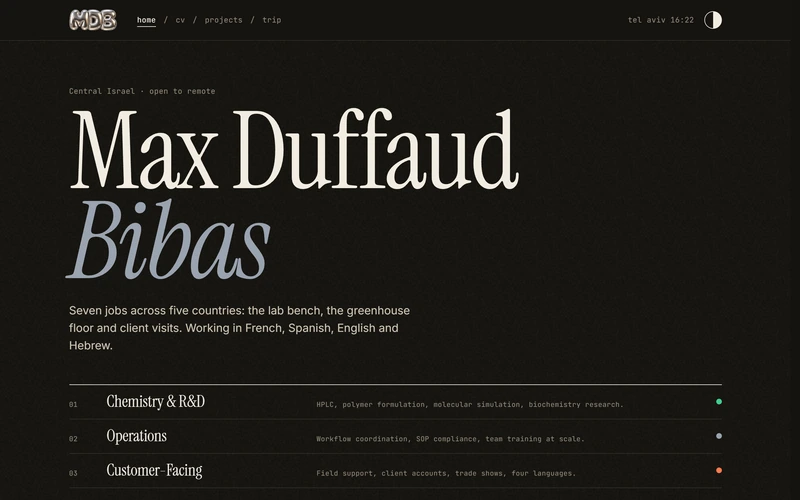
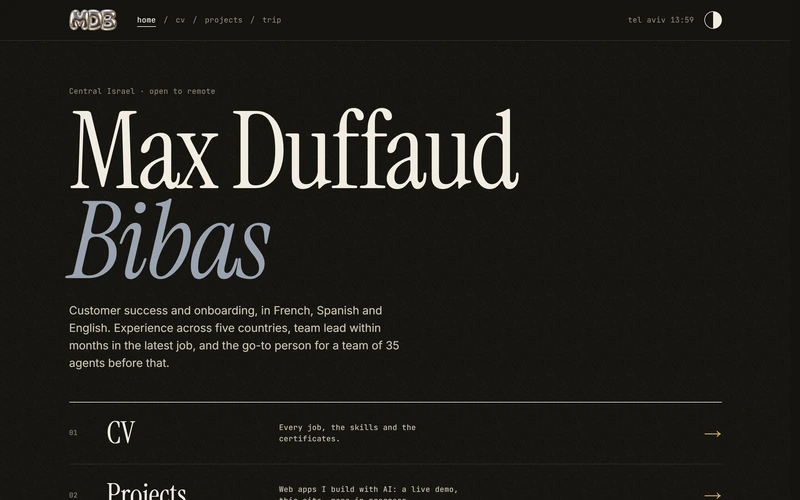
Owner's changes: services hidden behind a switch, countries instead of the job count
- data-services="off" on the <html> tag (line 2 of index.html) hides every
  [data-offer] block; the How I work section and its button are marked. "on" shows them again.
- Guestbook: Mireille Duvox out, Felix Followup in (his pick).
- Sharing description, Home line, board line and caption say countries, not seven jobs.
- Avicampo: "alone" dropped from the IPPE bullet, to match his CV.
- Car broker one line ends on "A private dashboard runs it all."
- "This website" case view and pictures no longer describe the three readings
  (home, home thumb and CV board retaken from the real site).

diff --git a/index.html b/index.html
@@ -1,5 +1,5 @@
 <!DOCTYPE html>
-<html lang="en">
+<html lang="en" data-services="off">
 <head>
 <!-- Decides before first paint whether the Welcome gate and the opening run (see js/home-intro.js, css/opening.css). -->
 <script id="intro-flag">
@@ -54,12 +54,12 @@ function releaseIntroIfStranded(win, root){
 <meta name="viewport" content="width=device-width, initial-scale=1" />
 <!-- seo:start -->
 <title>Max Duffaud Bibas | Customer Success &amp; Onboarding</title>
-<meta name="description" content="Customer success and onboarding in French, Spanish and English. 30+ new agents trained, seven jobs across five countries. CV, projects and trip. Open to remote.">
+<meta name="description" content="Customer success and onboarding in French, Spanish and English. 30+ agents trained, experience across five countries. Central Israel, open to remote.">
 <link rel="canonical" href="https://learningwithmax.github.io/MaxDB/">
 <meta property="og:type" content="website">
 <meta property="og:site_name" content="Max Duffaud Bibas">
 <meta property="og:title" content="Max Duffaud Bibas | Customer Success &amp; Onboarding">
-<meta property="og:description" content="Customer success and onboarding in French, Spanish and English. 30+ new agents trained, seven jobs across five countries. CV, projects and trip. Open to remote.">
+<meta property="og:description" content="Customer success and onboarding in French, Spanish and English. 30+ agents trained, experience across five countries. Central Israel, open to remote.">
 <meta property="og:url" content="https://learningwithmax.github.io/MaxDB/">
 <meta property="og:locale" content="en_US">
 <meta property="og:image" content="https://learningwithmax.github.io/MaxDB/img/og.png">
@@ -68,7 +68,7 @@ function releaseIntroIfStranded(win, root){
 <meta property="og:image:alt" content="The chrome balloon letters MDB on a black background, with the name Max Duffaud Bibas below.">
 <meta name="twitter:card" content="summary_large_image">
 <meta name="twitter:title" content="Max Duffaud Bibas | Customer Success &amp; Onboarding">
-<meta name="twitter:description" content="Customer success and onboarding in French, Spanish and English. 30+ new agents trained, seven jobs across five countries. CV, projects and trip. Open to remote.">
+<meta name="twitter:description" content="Customer success and onboarding in French, Spanish and English. 30+ agents trained, experience across five countries. Central Israel, open to remote.">
 <meta name="twitter:image" content="https://learningwithmax.github.io/MaxDB/img/og.png">
 <meta name="twitter:image:alt" content="The chrome balloon letters MDB on a black background, with the name Max Duffaud Bibas below.">
 <script type="application/ld+json">{"@context":"https://schema.org","@graph":[{"@type":"WebSite","@id":"https://learningwithmax.github.io/MaxDB/#website","name":"Max Duffaud Bibas","url":"https://learningwithmax.github.io/MaxDB/"},{"@type":"Person","@id":"https://learningwithmax.github.io/MaxDB/#person","name":"Max Duffaud Bibas","url":"https://learningwithmax.github.io/MaxDB/","sameAs":["https://linkedin.com/in/max-duffaud"],"knowsLanguage":["fr","es","en","he"]}]}</script>
@@ -263,7 +263,7 @@ function readStoredTheme(storage){
       <div class="hero-main">
         <p class="kicker fade-in" data-reveal>Central Israel &middot; open to remote</p>
         <h1 class="name fade-in" style="animation-delay:.05s" data-reveal>Max Duffaud<br><em>Bibas</em></h1>
-        <p class="role-line fade-in" style="animation-delay:.1s" data-reveal>Customer success and onboarding, in French, Spanish and English. Seven jobs across five countries, team lead within months in the latest one, and the go-to person for a team of 35 agents before that.</p>
+        <p class="role-line fade-in" style="animation-delay:.1s" data-reveal>Customer success and onboarding, in French, Spanish and English. Experience across five countries, team lead within months in the latest job, and the go-to person for a team of 35 agents before that.</p>
       </div>
 
       <ol class="cta-list fade-in" style="animation-delay:.15s" data-reveal>
@@ -351,9 +351,9 @@ function readStoredTheme(storage){
     </div>
 
     <section class="cv-board" id="cvBoard" aria-label="The seven jobs, one line each">
-      <p class="cv-board-sub">Seven jobs, one person.</p>
+      <p class="cv-board-sub">Five countries, one method.</p>
       <div class="cv-board-frame"><canvas role="img" aria-label="Split-flap board listing the seven jobs below, one line each"></canvas><div class="cv-board-labels" aria-hidden="true"></div></div>
-      <p class="cap cv-board-cap">Fig. 1. Seven jobs, five countries.</p>
+      <p class="cap cv-board-cap">Fig. 1. One line per job, newest first.</p>
       <p class="cv-board-note">The full story of each job is below.</p>
     </section>
 
@@ -426,7 +426,7 @@ function readStoredTheme(storage){
         <ul>
           <li>Joined field visits to 7-8 major clients, assessing technical needs and equipment status.</li>
           <li>Took part in 10-12 sales meetings, including IPPE in Atlanta (the world's largest poultry trade show) and the SIAVS trade show in S&atilde;o Paulo.</li>
-          <li>Handled a French-speaking client alone at IPPE on behalf of the Plasson team, gathering technical requirements. Worked in Spanish and English.</li>
+          <li>Handled a French-speaking client at IPPE on behalf of the Plasson team, gathering technical requirements. Worked in Spanish and English.</li>
         </ul>
       </div>
 
@@ -786,7 +786,7 @@ function readStoredTheme(storage){
     <section class="slider" id="projectSlider" role="group" aria-roledescription="carousel" aria-label="Projects" tabindex="0"></section>
     <noscript>
       <ul class="shelf-list">
-        <li><strong>Car broker template</strong>, Live. A website template for a vehicle broker. Visitors choose a path (rentals, leases, no credit check, car sourcing, or selling their car), pick a car and send a request, and the broker contacts them. A private dashboard runs it all. Each client gets their own version, starting with the look. Inside the dashboard: Requests with a status for each car, search and filters, private notes, reply templates, a calendar and CSV export. Cars with photos, prices and tags for each path, and Duplicate. Switch paths on or off, manage locations and site images, and see top customers. Built with: Next.js, React, TypeScript, Tailwind, Supabase, Resend and Vercel. Where it stands: Live as a demo on invented data. Small adjustments are still coming. Note: A new look for the site and the dashboard is coming, so this picture and the demo will change. <a href="https://mdesigns-broker-demo.vercel.app" target="_blank" rel="noopener">Visit Car broker template (opens in a new tab)</a> <a href="mailto:duffaud.max@gmail.com?subject=Demo%20access%3A%20Car%20broker%20template&amp;body=Hi%20Max%2C%0A%0AI%20saw%20Car%20broker%20template%20on%20your%20site%20and%20would%20like%20access%20to%20the%20dashboard.">Ask for access to the dashboard of Car broker template</a></li>
+        <li><strong>Car broker template</strong>, Live. A website template for a vehicle broker. Visitors choose a path (rentals, leases, no credit check, car sourcing, or selling their car), pick a car and send a request, and the broker contacts them. A private dashboard runs it all. Inside the dashboard: Requests with a status for each car, search and filters, private notes, reply templates, a calendar and CSV export. Cars with photos, prices and tags for each path, and Duplicate. Switch paths on or off, manage locations and site images, and see top customers. Built with: Next.js, React, TypeScript, Tailwind, Supabase, Resend and Vercel. Where it stands: Live as a demo on invented data. Small adjustments are still coming. Note: A new look for the site and the dashboard is coming, so this picture and the demo will change. <a href="https://mdesigns-broker-demo.vercel.app" target="_blank" rel="noopener">Visit Car broker template (opens in a new tab)</a> <a href="mailto:duffaud.max@gmail.com?subject=Demo%20access%3A%20Car%20broker%20template&amp;body=Hi%20Max%2C%0A%0AI%20saw%20Car%20broker%20template%20on%20your%20site%20and%20would%20like%20access%20to%20the%20dashboard.">Ask for access to the dashboard of Car broker template</a></li>
         <li><strong>This website</strong>, Live. A showcase of me: my professional experience in the CV, my creative side in the look, and my tech side in the site itself and its animations, including a 3D flight over the places where I was born, studied and worked. I bring the vision and lead, and Claude brainstorms and builds it with me. Built with: Claude, in plain HTML, CSS and JavaScript, with three.js and GSAP for the 3D. No framework. Where it stands: Live and still growing. It will keep growing as new projects happen and I keep expanding it. <a href="#projects/site">See how This website is built</a></li>
         <li><strong>Voice organizer</strong>, Building and testing. A voice-first to-do and memory system. I talk to Claude on my phone, even in a long ramble, and it files what I said into Notion as tasks, reminders, appointments, notes and ideas. It checks for repeats, plans my day, wraps it up with me and keeps a searchable daily log. Inside the dashboard: A Notion dashboard with the list for today, what slipped from earlier, an inbox, a calendar, build ideas, ideas and notes, and a daily log that keeps everything I said. Built with: The Claude app on my phone and Notion, with a written set of instructions. Nothing to host. Where it stands: Built and in testing on my own phone. More features are planned, and it is not public.</li>
         <li><strong>Broker template for any market</strong>, Planned. One template for any broker business, built from the car broker. The skeleton stays the same: a catalog, requests with a status, private notes, reply templates and a calendar. For each market, the paths visitors choose, the details of each item and the look change. Built with: The same stack as the car broker: Next.js, TypeScript, Tailwind CSS and Supabase. Where it stands: Planned. It starts once the car version is complete.</li>
@@ -794,7 +794,7 @@ function readStoredTheme(storage){
       </ul>
     </noscript>
 
-    <section class="how-i-work" aria-labelledby="how-title">
+    <section class="how-i-work" data-offer aria-labelledby="how-title">
       <p class="kicker">How I work</p>
       <h2 id="how-title">Want one like it?</h2>
       <p class="how-lead">The templates above are a base that I personalize for you. They are also here to show what I know how to build, so if you want something 100% custom, I can build that too.</p>
@@ -813,14 +813,14 @@ function readStoredTheme(storage){
       <p class="kicker">Project</p>
       <h1 id="case-site-title">This website</h1>
       <p class="case-status"><span class="chip chip-live">Live</span></p>
-      <p class="case-lead">The site you are on, built with Claude from written specs: a CV that reads four ways, a trip page and this projects page. Plain HTML, CSS and JavaScript, with no framework and no build step.</p>
+      <p class="case-lead">The site you are on, built with Claude from written specs: a CV with a split-flap board, a trip page and this projects page. Plain HTML, CSS and JavaScript, with no framework and no build step.</p>
       <figure class="case-fig">
         <img src="img/projects/site/opening.webp" width="1600" height="1000" loading="lazy" decoding="async" alt="The opening: chrome spheres gathered into the letters MDB on a black screen">
         <figcaption class="cap">Fig. 1. The opening, spheres gathering into the logo.</figcaption>
       </figure>
       <figure class="case-fig">
-        <img src="img/projects/site/screen-cv.webp" width="1600" height="1000" loading="lazy" decoding="async" alt="The CV page with the departure board showing the Operations reading">
-        <figcaption class="cap">Fig. 2. The CV board flipping to one reading.</figcaption>
+        <img src="img/projects/site/screen-cv.webp" width="1600" height="1000" loading="lazy" decoding="async" alt="The CV page: the split-flap board with one line per job, the year, the place and what I did">
+        <figcaption class="cap">Fig. 2. The CV board, every job flipping into place.</figcaption>
       </figure>
       <figure class="case-fig">
         <img src="img/projects/site/screen-trip.webp" width="1600" height="1000" loading="lazy" decoding="async" alt="The trip page: a 3D globe over Europe with a plane in flight, and the list of eleven stops beside it">
@@ -910,9 +910,9 @@ function readStoredTheme(storage){
             <div class="g-comment">"10/10 site design. 2/10 for making me read a resume this closely."</div>
           </div>
           <div class="vlog-guest">
-            <div class="g-name">Mireille Duvox</div>
-            <div class="g-role">Head of Vibes &middot; Quantum Whatever Corp</div>
-            <div class="g-comment">"Chemist, operator, translator. Pick a lane. (He didn't. Respect.)"</div>
+            <div class="g-name">Felix Followup</div>
+            <div class="g-role">Senior Follow-Up Officer &middot; Circle Back Inc.</div>
+            <div class="g-comment">"Just circling back to say the split-flap board is still flipping in my head."</div>
           </div>
           <div class="vlog-guest">
             <div class="g-name">Barnaby Sump</div>

diff --git a/js/projects.js b/js/projects.js
@@ -13,7 +13,7 @@ const STATUS_LABELS = { live: 'Live', building: 'Building and testing', planned:
 const PROJECTS = [
   {
     id: 'car-broker', title: 'Car broker template', status: 'live', order: 1, access: 'request', accessTo: 'the dashboard', href: 'https://mdesigns-broker-demo.vercel.app',
-    oneLine: 'A website template for a vehicle broker. Visitors choose a path (rentals, leases, no credit check, car sourcing, or selling their car), pick a car and send a request, and the broker contacts them. A private dashboard runs it all. Each client gets their own version, starting with the look.',
+    oneLine: 'A website template for a vehicle broker. Visitors choose a path (rentals, leases, no credit check, car sourcing, or selling their car), pick a car and send a request, and the broker contacts them. A private dashboard runs it all.',
     dashboard: 'Requests with a status for each car, search and filters, private notes, reply templates, a calendar and CSV export. Cars with photos, prices and tags for each path, and Duplicate. Switch paths on or off, manage locations and site images, and see top customers.',
     builtWith: 'Next.js, React, TypeScript, Tailwind, Supabase, Resend and Vercel.',
     stands: 'Live as a demo on invented data. Small adjustments are still coming.',
@@ -30,7 +30,7 @@ const PROJECTS = [
     stands: 'Live and still growing. It will keep growing as new projects happen and I keep expanding it.',
     image: {
       src: 'img/projects/site/home.webp', thumb: 'img/projects/site/home-thumb.webp', w: 1600, h: 1000,
-      alt: 'The home page of this website: the name in large serif type, one line about seven jobs across five countries, and three rows for the CV readings.',
+      alt: 'The home page of this website: the name in large serif type, one line about customer success and onboarding, and the first big buttons, to the CV and Projects.',
     },
   },
   {

diff --git a/css/projects.css b/css/projects.css
@@ -166,6 +166,10 @@
 .how-promise{margin:var(--sp-24) 0 0; padding-left:var(--sp-12); border-left:2px solid var(--gold); font:400 12px/1.6 var(--font-mono); letter-spacing:.03em; color:var(--text-2);}
 .how-action{margin:var(--sp-24) 0 0;}
 #page-projects[data-view="case"] .how-i-work{display:none;}
+/* The services switch (owner, 2026-11-14): data-services on the <html> tag, line 2 of index.html. "off" hides every block marked
+   data-offer (today the How I work block and its "Tell me what you need" button); change it to "on" to show them again. Pure CSS, so it
+   works without JavaScript and nothing flashes while the page loads. */
+:root[data-services="off"] [data-offer]{display:none !important;}
 @media (max-width:700px){
   .how-i-work{padding:var(--sp-32) 0 var(--sp-48);}
   .how-steps li{grid-template-columns:32px 1fr; gap:var(--sp-12);}

diff --git a/CLAUDE.md b/CLAUDE.md
@@ -133,6 +133,10 @@ is `next`); merging into `main` goes live in about a minute and needs the owner'
 3. "How I work": text done and in `index.html` 2026-10-28 (a block under the slider on the Projects page, `section.how-i-work`, hidden in the case view; four steps, "Don't hesitate to reach out, no obligation",
    a reply within two business days (he does not want it to say "free"), one button that emails the CV address; the templates are a base, something 100% custom can be built). Only promises he gave; no prices, no delivery times. Idea for after that:
    sell the basic templates on a marketplace for digital products and offer the custom service there too (nothing researched yet; check licenses, support and what is claimed before listing anything).
+   HIDDEN since 2026-11-14 (his call: the site sells him for a job, not services). The services switch is `data-services` on the `<html>` tag, line 2 of `index.html`:
+   `off` hides every element marked `data-offer` (today only `section.how-i-work`, with its "Tell me what you need" button) through one rule in `css/projects.css`; `on` shows it again.
+   Nothing else needs to change to turn it on. Any new service offer gets `data-offer`; `projects-page.test.mjs` fails if services wording sits outside a marked block.
+   The same day he dropped "Each client gets their own version, starting with the look." from the car broker's one line; ask him whether it comes back when services do.
 3b. IDEA, to brainstorm with him after the planned list is done (his words, 2026-10-28): a small avatar of him, a "mini me", on the side of every page, that talks with the visitor, can be hidden by the
    visitor, interacts, and says things from time to time depending on the active page, talking about him. Nothing built or decided yet; start with the brainstorming skill and settle the questions
    (what it says and who writes it, how it looks, how it hides and whether it stays hidden, motion and reduced motion, phone, no tracking, and nothing it says that he cannot stand behind).
@@ -151,3 +155,4 @@ is `next`); merging into `main` goes live in about a minute and needs the owner'
 9. Refocus (announced by the owner 2026-11-02, NOT started, waiting on him): the site will be narrowed to one clear goal. He is working out his target positions in another conversation (Claude, not Claude Code, so I cannot see it) and will bring the result here. Then: the CV gets ONE reading instead of three (the four reading buttons, the `data-lens-group` blocks, the board data, the Home departures preview and the `check.mjs` lens checks all follow), and the Home page gets bigger, more visible calls to action to Trip, Projects and CV. The animations stay exactly as they are and the rest stays mostly the same. His LinkedIn and CV change too. Do not start before he brings the target. The mini me (item 3b) waits for it as well: what it says and its guide job depend on the goal. Brainstorm so far (2026-11-02): main job personality, secondary guiding, showcase for free; the open question is how it talks (my pick: it speaks, plus tap choices with answers we write, no free typing and no live AI). Private details are in `PROJECT-NOTES.local.md` (git-ignored).
    2026-11-06: he sent the new CV (a PDF outside the repo; it carries his phone number, so never copy the file or the number in). He confirmed the site stays as it is (design, pages, opening, globe, board, slider); only the content changes to fit the direction. Intelcia, his choice B: the public page may say "resale marketplace" and the facts that do not identify the client (30+ agents trained and onboarded, weekly quality evaluations, an Excel scoreboard), and "retail sector" instead of "premium brand". So `INTELCIA_FACT` and `checkIntelciaFact` in `scripts/lib/rules.mjs` will change to the approved sentences (the ban on product names stays). The headline (Customer Success and/or Onboarding) is being settled with him.
    LIVE 2026-11-06 as build 2, Helium (commit d7aead2 on `main`; he kept the board title "ALL PATHS, ONE PERSON"): headline "Customer Success & Onboarding", one CV reading, reading buttons gone, Home buttons to CV, Projects and Trip, every text approved by him in rounds (the drafts and his answers are in `cv-refocus-draft.local.md`, git-ignored). His official Intelcia title is the contract's "teleoperador/a", so the CV says "Customer Service Agent" and the bullets show he did the coordinator work without the title. Never claim he was the first at Michelin to do the simulation project (he was told so, cannot confirm). Two of his approved lines were adjusted to his own 2026-10-25 rules ("sales", not "commercial"; SIAVS named as a trade show) and the Madrid Trip stop was trimmed to the 120-character limit; he was told. Certificates to add when he earns them: HubSpot Inbound, Intercom (Fin Academy) support agent and manager, Salesforce Platform Foundations (formerly Associate).
+   2026-11-14, his changes (on `next` until he says push): the services block hidden behind the switch (item 3), Mireille Duvox out of the guestbook and Felix Followup in (his pick), "seven jobs" reframed as countries (the sharing description, the Home line, which now ends "in the latest job", the board line "Five countries, one method." and the caption "Fig. 1. One line per job, newest first."), "alone" dropped from the Avicampo IPPE bullet to match his CV, and the leftovers of the three readings fixed in the "This website" case view and its pictures (home.webp, home-thumb.webp, screen-cv.webp retaken). He chose to keep "4 MORE JOBS", "Three of seven jobs" and the screen reader labels that count seven jobs.
